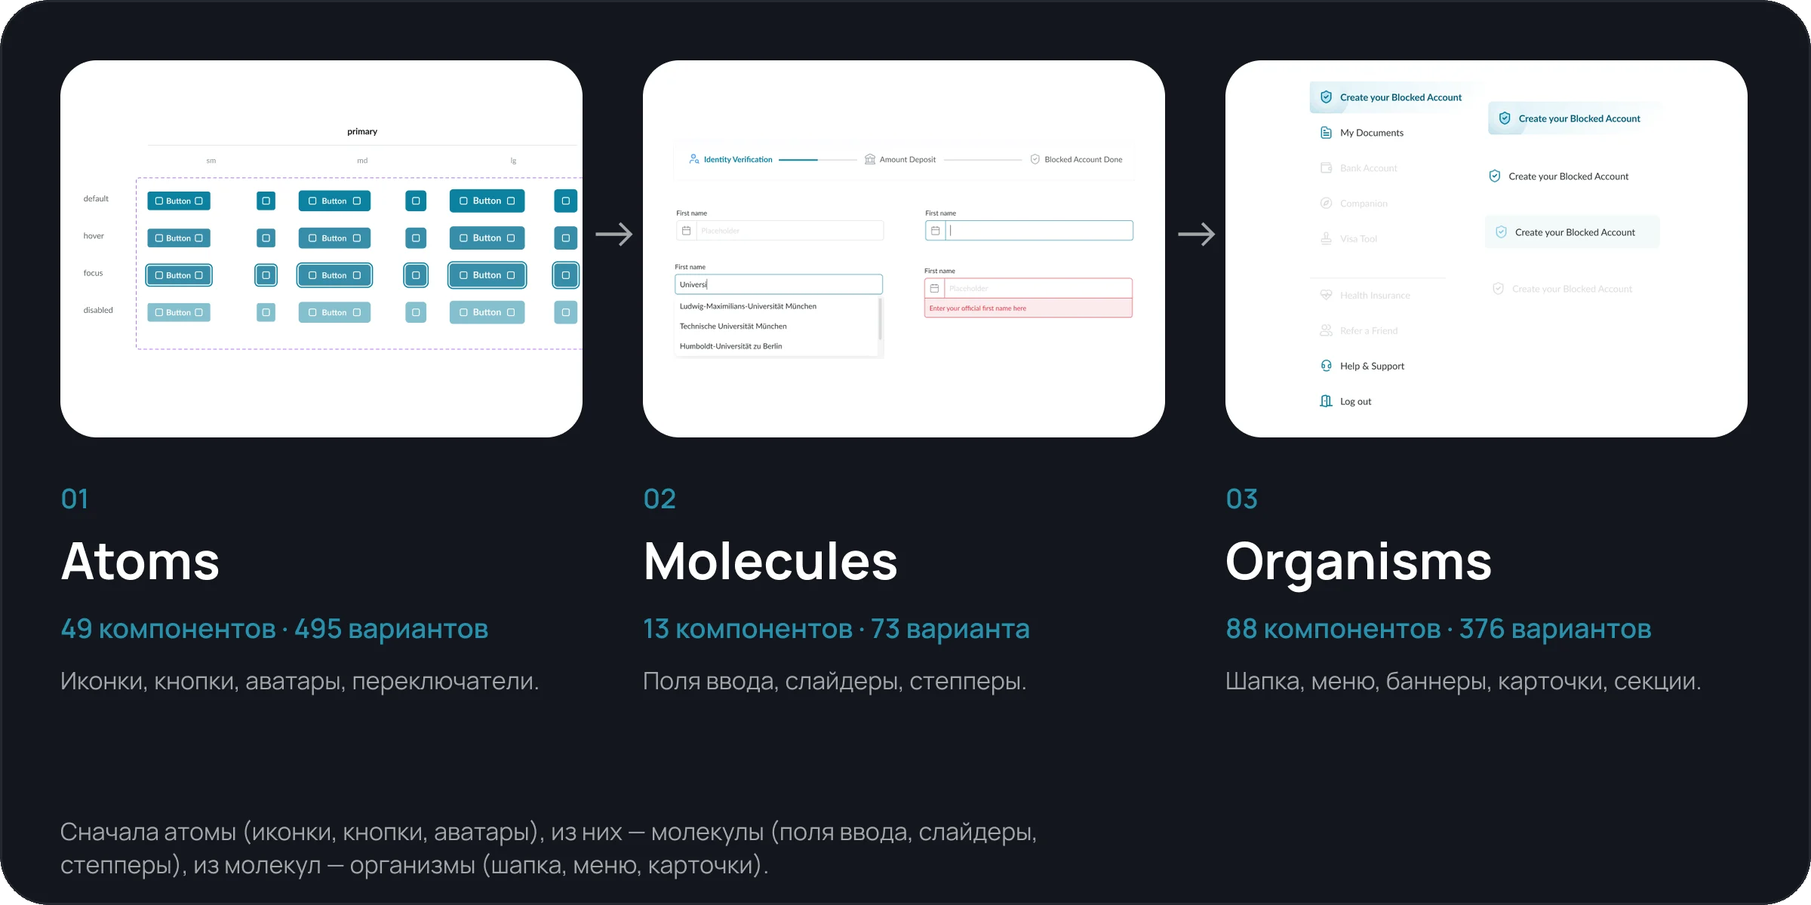
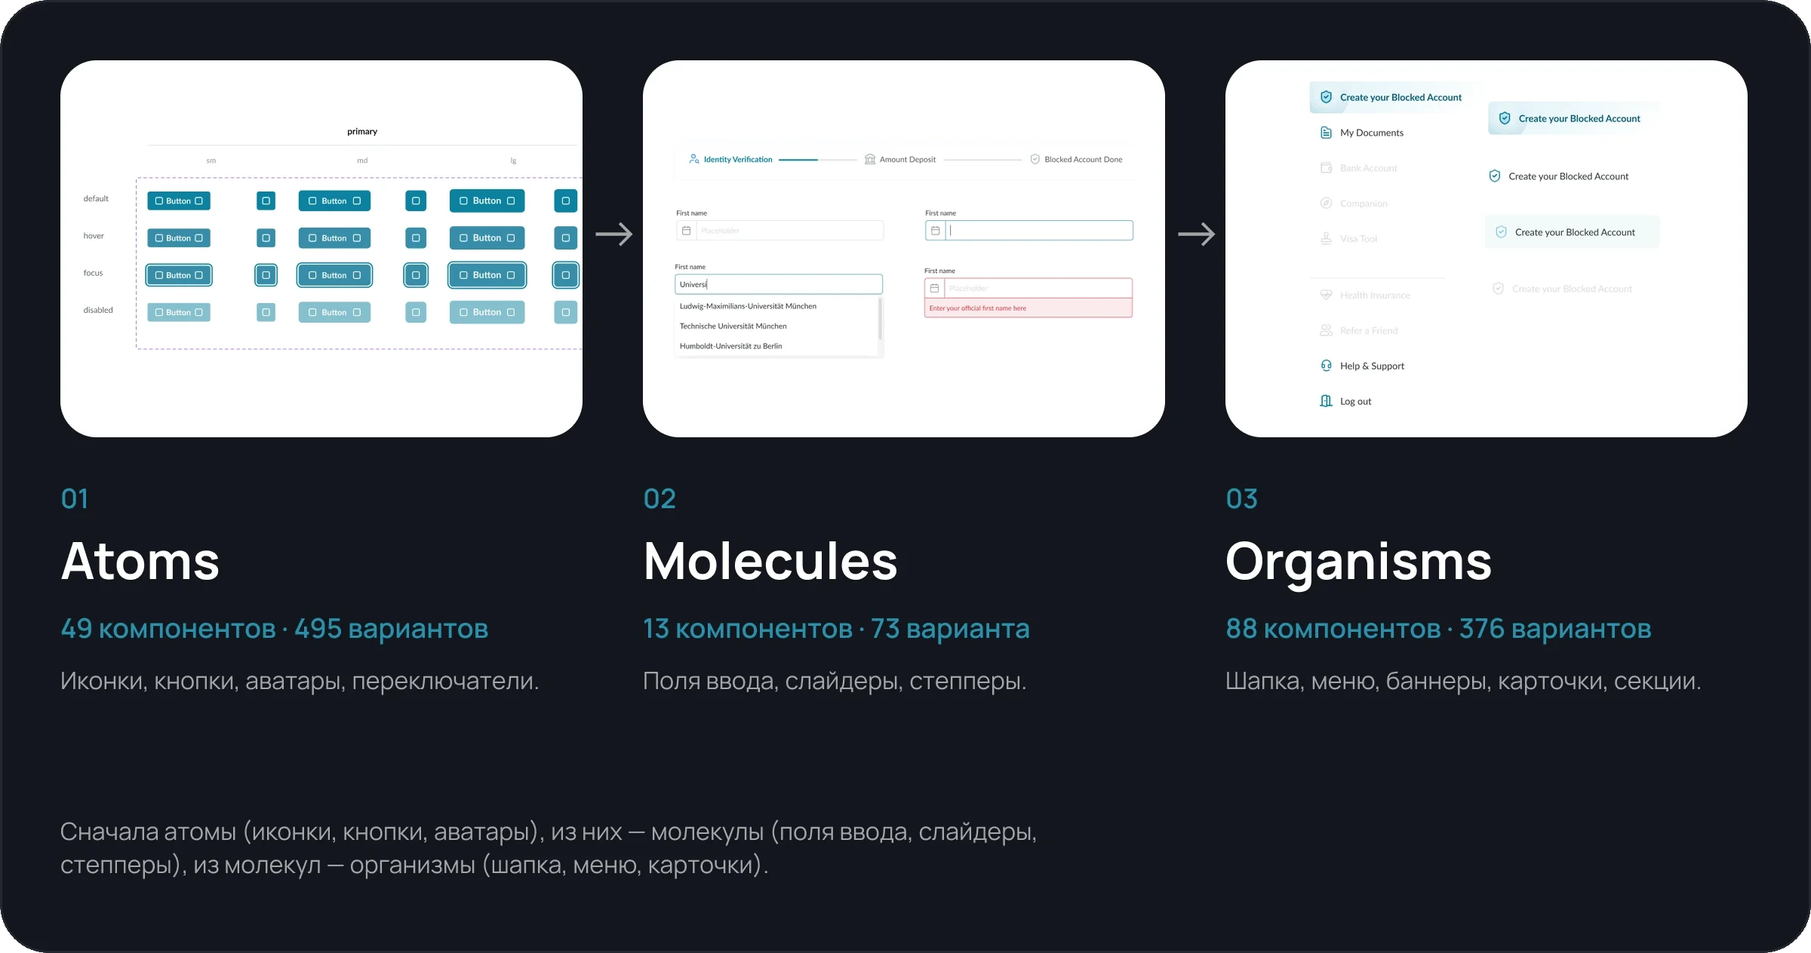
Design-system case: more bottom padding in cards, fix footer line overlap on palette
Claude-Session: https://claude.ai/code/session_011pq2ADq6rPTZrVGSK3qx6v

diff --git a/cases/design-system.html b/cases/design-system.html
@@ -19,7 +19,7 @@
   <link rel="preconnect" href="https://fonts.googleapis.com">
   <link rel="preconnect" href="https://fonts.gstatic.com" crossorigin>
   <link href="https://fonts.googleapis.com/css2?family=Manrope:wght@400;500;600;700;800&display=swap" rel="stylesheet">
-  <link rel="stylesheet" href="../assets/css/site.css?v=1793307500">
+  <link rel="stylesheet" href="../assets/css/site.css?v=1793308300">
   <link rel="stylesheet" href="../assets/css/case-dark.css?v=1793107715">
 </head>
 <body class="theme-dark ds-case">
@@ -105,25 +105,25 @@
         <div class="a dsf" style="--x:0; --y:1344; --w:1200"><span>В цифрах</span><span>05</span></div>
       </div>
     </section>
-    <section class="dsec" style="--h:974; background-image:url(../assets/img/ds/bg-atomic.webp)">
+    <section class="dsec" style="--h:1006; background-image:url(../assets/img/ds/bg-atomic.webp)">
       <div class="st">
         <div class="a dsh" style="--x:0; --y:96; --w:1200"><h2><span>Атомарный</span><span class="pl">подход</span></h2><p class="desc">Систему я собирала по уровням: от базовых элементов до сложных блоков интерфейса. Так её проще расширять и проверять.</p></div>
-        <div class="a" style="--x:0; --y:227; --w:1200"><div class="cimg only-d"><img src="../assets/img/ds/card-atomic.webp" width="2400" height="1200" loading="lazy" alt="Три уровня системы: Atoms — 49 компонентов и 495 вариантов, Molecules — 13 компонентов и 73 варианта, Organisms — 88 компонентов и 376 вариантов"></div><div class="mob only-m"><div class="mlvl"><img src="../assets/img/ds/m-atomic-1.webp" width="692" height="500" loading="lazy" alt="Атомы: варианты кнопок"><span class="num">01</span><h3>Atoms</h3><p class="cnt">49 компонентов · 495 вариантов</p><p>Иконки, кнопки, аватары, переключатели.</p></div><div class="mlvl"><img src="../assets/img/ds/m-atomic-2.webp" width="692" height="500" loading="lazy" alt="Молекулы: поля ввода и степпер"><span class="num">02</span><h3>Molecules</h3><p class="cnt">13 компонентов · 73 варианта</p><p>Поля ввода, слайдеры, степперы.</p></div><div class="mlvl"><img src="../assets/img/ds/m-atomic-3.webp" width="692" height="500" loading="lazy" alt="Организмы: боковое меню"><span class="num">03</span><h3>Organisms</h3><p class="cnt">88 компонентов · 376 вариантов</p><p>Шапка, меню, баннеры, карточки, секции.</p></div><p class="mnote">Сначала атомы (иконки, кнопки, аватары), из них — молекулы (поля ввода, слайдеры, степперы), из молекул — организмы (шапка, меню, карточки).</p></div></div>
-        <div class="a dsf" style="--x:0; --y:883; --w:1200"><span>Методология: атомарный подход</span><span>06</span></div>
+        <div class="a" style="--x:0; --y:227; --w:1200"><div class="cimg only-d"><img src="../assets/img/ds/card-atomic.webp?v=8" width="2400" height="1264" loading="lazy" alt="Три уровня системы: Atoms — 49 компонентов и 495 вариантов, Molecules — 13 компонентов и 73 варианта, Organisms — 88 компонентов и 376 вариантов"></div><div class="mob only-m"><div class="mlvl"><img src="../assets/img/ds/m-atomic-1.webp" width="692" height="500" loading="lazy" alt="Атомы: варианты кнопок"><span class="num">01</span><h3>Atoms</h3><p class="cnt">49 компонентов · 495 вариантов</p><p>Иконки, кнопки, аватары, переключатели.</p></div><div class="mlvl"><img src="../assets/img/ds/m-atomic-2.webp" width="692" height="500" loading="lazy" alt="Молекулы: поля ввода и степпер"><span class="num">02</span><h3>Molecules</h3><p class="cnt">13 компонентов · 73 варианта</p><p>Поля ввода, слайдеры, степперы.</p></div><div class="mlvl"><img src="../assets/img/ds/m-atomic-3.webp" width="692" height="500" loading="lazy" alt="Организмы: боковое меню"><span class="num">03</span><h3>Organisms</h3><p class="cnt">88 компонентов · 376 вариантов</p><p>Шапка, меню, баннеры, карточки, секции.</p></div><p class="mnote">Сначала атомы (иконки, кнопки, аватары), из них — молекулы (поля ввода, слайдеры, степперы), из молекул — организмы (шапка, меню, карточки).</p></div></div>
+        <div class="a dsf" style="--x:0; --y:915; --w:1200"><span>Методология: атомарный подход</span><span>06</span></div>
       </div>
     </section>
-    <section class="dsec" style="--h:894; background-image:url(../assets/img/ds/bg-base.webp)">
+    <section class="dsec" style="--h:926; background-image:url(../assets/img/ds/bg-base.webp)">
       <div class="st">
         <div class="a dsh" style="--x:0; --y:96; --w:1200"><h2><span>Основа</span><span class="pl">системы</span></h2><p class="desc">Три слоя, на которых держится всё остальное: цвета, типографика и иконки. Дальше — каждый подробнее.</p></div>
-        <div class="a" style="--x:0; --y:227; --w:1200"><div class="cimg only-d"><img src="../assets/img/ds/card-base.webp" width="2400" height="1040" loading="lazy" alt="Основа системы: цвета Primary и Secondary, типографика Lato 400 и 700 с размерами от 12 до 36 px, иконки для Web и Mobile с состояниями"></div><div class="mob only-m"><figure class="mfig"><img src="../assets/img/ds/m-base-1.webp" width="692" height="720" loading="lazy" alt="Шкалы бирюзового и фиолетового"><figcaption><b>Цвета</b>Primary и Secondary, семантика для состояний</figcaption></figure><figure class="mfig"><img src="../assets/img/ds/m-base-2.webp" width="692" height="720" loading="lazy" alt="Lato 400 и 700, размеры 12–36"><figcaption><b>Типографика</b>Lato 400 и 700, 9 размеров от 12 до 36 px</figcaption></figure><figure class="mfig"><img src="../assets/img/ds/m-base-3.webp" width="692" height="720" loading="lazy" alt="Иконки в четырёх состояниях"><figcaption><b>Иконки</b>Web и Mobile, с состояниями</figcaption></figure></div></div>
-        <div class="a dsf" style="--x:0; --y:803; --w:1200"><span>Основа системы</span><span>07</span></div>
+        <div class="a" style="--x:0; --y:227; --w:1200"><div class="cimg only-d"><img src="../assets/img/ds/card-base.webp?v=9" width="2400" height="1096" loading="lazy" alt="Основа системы: цвета Primary и Secondary, типографика Lato 400 и 700 с размерами от 12 до 36 px, иконки для Web и Mobile с состояниями"></div><div class="mob only-m"><figure class="mfig"><img src="../assets/img/ds/m-base-1.webp" width="692" height="720" loading="lazy" alt="Шкалы бирюзового и фиолетового"><figcaption><b>Цвета</b>Primary и Secondary, семантика для состояний</figcaption></figure><figure class="mfig"><img src="../assets/img/ds/m-base-2.webp" width="692" height="720" loading="lazy" alt="Lato 400 и 700, размеры 12–36"><figcaption><b>Типографика</b>Lato 400 и 700, 9 размеров от 12 до 36 px</figcaption></figure><figure class="mfig"><img src="../assets/img/ds/m-base-3.webp" width="692" height="720" loading="lazy" alt="Иконки в четырёх состояниях"><figcaption><b>Иконки</b>Web и Mobile, с состояниями</figcaption></figure></div></div>
+        <div class="a dsf" style="--x:0; --y:835; --w:1200"><span>Основа системы</span><span>07</span></div>
       </div>
     </section>
-    <section class="dsec" style="--h:895; background-image:url(../assets/img/ds/bg-palette.webp)">
+    <section class="dsec" style="--h:963; background-image:url(../assets/img/ds/bg-palette.webp)">
       <div class="st">
         <div class="a dsh" style="--x:0; --y:96; --w:1200"><h2><span>Палитра и</span><span class="pl">правила</span></h2><p class="desc">Основной цвет — бирюзовый, вторичный — фиолетовый. Для успеха, ошибок и предупреждений отдельные группы.</p></div>
         <div class="a" style="--x:0; --y:227; --w:1200"><div class="dcard pal-live only-d" id="palLive"><div class="pal-row"><h3>Teal — основной бирюзовый</h3><div class="pal-sws"><button type="button" class="pal-sw" data-scale="teal" data-step="50" data-hex="#F3F9FA" style="--c:#F3F9FA" aria-label="teal/50 #F3F9FA"><i></i><b>50</b><span>#F3F9FA</span></button><button type="button" class="pal-sw" data-scale="teal" data-step="100" data-hex="#E0F2F8" style="--c:#E0F2F8" aria-label="teal/100 #E0F2F8"><i></i><b>100</b><span>#E0F2F8</span></button><button type="button" class="pal-sw" data-scale="teal" data-step="200" data-hex="#B3DFF0" style="--c:#B3DFF0" aria-label="teal/200 #B3DFF0"><i></i><b>200</b><span>#B3DFF0</span></button><button type="button" class="pal-sw" data-scale="teal" data-step="300" data-hex="#80CBE7" style="--c:#80CBE7" aria-label="teal/300 #80CBE7"><i></i><b>300</b><span>#80CBE7</span></button><button type="button" class="pal-sw" data-scale="teal" data-step="400" data-hex="#0C81A0" style="--c:#0C81A0" aria-label="teal/400 #0C81A0"><i></i><b>400</b><span>#0C81A0</span></button><button type="button" class="pal-sw" data-scale="teal" data-step="500" data-hex="#0B748F" style="--c:#0B748F" aria-label="teal/500 #0B748F"><i></i><b>500</b><span>#0B748F</span></button><button type="button" class="pal-sw" data-scale="teal" data-step="600" data-hex="#096078" style="--c:#096078" aria-label="teal/600 #096078"><i></i><b>600</b><span>#096078</span></button><button type="button" class="pal-sw" data-scale="teal" data-step="700" data-hex="#064C60" style="--c:#064C60" aria-label="teal/700 #064C60"><i></i><b>700</b><span>#064C60</span></button><button type="button" class="pal-sw" data-scale="teal" data-step="800" data-hex="#043B4A" style="--c:#043B4A" aria-label="teal/800 #043B4A"><i></i><b>800</b><span>#043B4A</span></button></div></div><div class="pal-row"><h3>Purple — вторичный фиолетовый</h3><div class="pal-sws"><button type="button" class="pal-sw" data-scale="purple" data-step="50" data-hex="#F7F2F7" style="--c:#F7F2F7" aria-label="purple/50 #F7F2F7"><i></i><b>50</b><span>#F7F2F7</span></button><button type="button" class="pal-sw" data-scale="purple" data-step="100" data-hex="#F3E7F6" style="--c:#F3E7F6" aria-label="purple/100 #F3E7F6"><i></i><b>100</b><span>#F3E7F6</span></button><button type="button" class="pal-sw" data-scale="purple" data-step="200" data-hex="#E1C3EA" style="--c:#E1C3EA" aria-label="purple/200 #E1C3EA"><i></i><b>200</b><span>#E1C3EA</span></button><button type="button" class="pal-sw" data-scale="purple" data-step="300" data-hex="#CF9FDE" style="--c:#CF9FDE" aria-label="purple/300 #CF9FDE"><i></i><b>300</b><span>#CF9FDE</span></button><button type="button" class="pal-sw" data-scale="purple" data-step="400" data-hex="#842385" style="--c:#842385" aria-label="purple/400 #842385"><i></i><b>400</b><span>#842385</span></button><button type="button" class="pal-sw" data-scale="purple" data-step="500" data-hex="#731E74" style="--c:#731E74" aria-label="purple/500 #731E74"><i></i><b>500</b><span>#731E74</span></button><button type="button" class="pal-sw" data-scale="purple" data-step="600" data-hex="#601A62" style="--c:#601A62" aria-label="purple/600 #601A62"><i></i><b>600</b><span>#601A62</span></button></div></div><div class="pal-info" aria-live="polite"><i class="pal-info__sw"></i><div class="pal-info__txt"><b class="pal-info__name">teal/400</b><span class="pal-info__use"></span></div><button type="button" class="pal-copy">Скопировать HEX <em>#0C81A0</em></button></div><p class="pal-hint">Нажми на оттенок: увидишь токен, который на нём держится.</p></div><div class="mob only-m"><div class="mcard"><h3 class="ph">Teal — основной бирюзовый</h3><ul class="mpal"><li><i style="background:#F3F9FA"></i><b>50</b><span>#F3F9FA</span></li><li><i style="background:#E0F2F8"></i><b>100</b><span>#E0F2F8</span></li><li><i style="background:#B3DFF0"></i><b>200</b><span>#B3DFF0</span></li><li><i style="background:#80CBE7"></i><b>300</b><span>#80CBE7</span></li><li><i style="background:#0C81A0"></i><b>400</b><span>#0C81A0</span></li><li><i style="background:#0B748F"></i><b>500</b><span>#0B748F</span></li><li><i style="background:#096078"></i><b>600</b><span>#096078</span></li><li><i style="background:#064C60"></i><b>700</b><span>#064C60</span></li><li><i style="background:#043B4A"></i><b>800</b><span>#043B4A</span></li></ul><h3 class="ph">Purple — вторичный фиолетовый</h3><ul class="mpal"><li><i style="background:#F7F2F7"></i><b>50</b><span>#F7F2F7</span></li><li><i style="background:#F3E7F6"></i><b>100</b><span>#F3E7F6</span></li><li><i style="background:#E1C3EA"></i><b>200</b><span>#E1C3EA</span></li><li><i style="background:#CF9FDE"></i><b>300</b><span>#CF9FDE</span></li><li><i style="background:#842385"></i><b>400</b><span>#842385</span></li><li><i style="background:#731E74"></i><b>500</b><span>#731E74</span></li><li><i style="background:#601A62"></i><b>600</b><span>#601A62</span></li></ul></div></div></div>
-        <div class="a dsf" style="--x:0; --y:804; --w:1200"><span>Цветовая палитра</span><span>08</span></div>
+        <div class="a dsf" style="--x:0; --y:872; --w:1200"><span>Цветовая палитра</span><span>08</span></div>
       </div>
     </section>
     <section class="dsec dsec--tabs" id="tok" style="--h:1378; background-image:url(../assets/img/ds/bg-tokens.webp)">
@@ -153,7 +153,7 @@
         <div class="a dsf" style="--x:0; --y:2882; --w:1200"><span>Кнопки</span><span>11</span></div>
       </div>
     </section>
-    <section class="dsec" style="--h:900; background-image:url(../assets/img/ds/bg-inputs.webp)">
+    <section class="dsec" style="--h:915; background-image:url(../assets/img/ds/bg-inputs.webp)">
       <div class="st">
         <div class="a dsh" style="--x:0; --y:96; --w:1200"><h2><span>Собери</span><span class="pl">кнопку</span></h2><p class="desc">Button — один компонент вместо набора. Выбери тип, состояние, размер и иконку: 9 × 4 × 3 × 2 = 216 вариантов.</p></div>
         <div class="a" style="--x:0; --y:227; --w:1200"><div class="dcard pg" id="pg">
@@ -166,7 +166,7 @@
           <div class="pg__stage"><div class="pg__surface"><button type="button" class="dbtn" data-type="primary" data-state="default" data-size="md" data-icon="off" tabindex="-1"><span class="dbtn__t">Button</span><svg class="dbtn__i" viewBox="0 0 24 24" width="18" height="18" fill="none" stroke="currentColor" stroke-width="2" stroke-linecap="round" stroke-linejoin="round" aria-hidden="true"><path d="M5 12h14M13 6l6 6-6 6"/></svg></button></div>
             <code class="pg__code" id="pgCode">variant=primary · state=default · size=md · iconOnly=false</code></div>
         </div></div>
-        <div class="a dsf" style="--x:0; --y:809; --w:1200"><span>Конфигуратор Button</span><span>12</span></div>
+        <div class="a dsf" style="--x:0; --y:824; --w:1200"><span>Конфигуратор Button</span><span>12</span></div>
       </div>
     </section>
     <section class="dsec" style="--h:1054; background-image:url(../assets/img/ds/bg-inputs.webp)">
@@ -210,11 +210,11 @@
         <div class="a dsf" style="--x:0; --y:1486; --w:1200"><span>Аудит модальных окон</span><span>17</span></div>
       </div></div>
     </section>
-    <section class="dsec" style="--h:1270; background-image:url(../assets/img/ds/bg-product.webp)">
+    <section class="dsec" style="--h:1302; background-image:url(../assets/img/ds/bg-product.webp)">
       <div class="st">
         <div class="a dsh" style="--x:0; --y:96; --w:1200"><h2><span>Система</span><span class="pl">в продукте</span></h2><p class="desc">Экраны из потоков пополнения счёта и входа: так система выглядит в живом продукте.</p></div>
-        <div class="a" style="--x:0; --y:227; --w:1200"><div class="cimg only-d"><img src="../assets/img/ds/card-product.webp" width="2400" height="1792" loading="lazy" alt="Три экрана продукта: способы оплаты, данные плательщика и вход в аккаунт"></div><div class="mob only-m"><div class="mphones"><figure><img src="../assets/img/ds/m-product-1.webp" width="692" height="1504" loading="lazy" alt="Способы оплаты"><figcaption><b>Способы оплаты</b>Карточки с состояниями, статусы Instant и Non-Instant, ссылки на детали.</figcaption></figure><figure><img src="../assets/img/ds/m-product-2.webp" width="692" height="1504" loading="lazy" alt="Данные плательщика"><figcaption><b>Данные плательщика</b>Поля ввода с иконками, подсказки и кнопка в состоянии disabled.</figcaption></figure><figure><img src="../assets/img/ds/m-product-3.webp" width="692" height="1504" loading="lazy" alt="Вход в аккаунт"><figcaption><b>Вход в аккаунт</b>Основная кнопка, поле ввода, вход через Google и состояние кнопки disabled.</figcaption></figure></div></div></div>
-        <div class="a dsf" style="--x:0; --y:1179; --w:1200"><span>Система в продукте</span><span>18</span></div>
+        <div class="a" style="--x:0; --y:227; --w:1200"><div class="cimg only-d"><img src="../assets/img/ds/card-product.webp?v=8" width="2400" height="1856" loading="lazy" alt="Три экрана продукта: способы оплаты, данные плательщика и вход в аккаунт"></div><div class="mob only-m"><div class="mphones"><figure><img src="../assets/img/ds/m-product-1.webp" width="692" height="1504" loading="lazy" alt="Способы оплаты"><figcaption><b>Способы оплаты</b>Карточки с состояниями, статусы Instant и Non-Instant, ссылки на детали.</figcaption></figure><figure><img src="../assets/img/ds/m-product-2.webp" width="692" height="1504" loading="lazy" alt="Данные плательщика"><figcaption><b>Данные плательщика</b>Поля ввода с иконками, подсказки и кнопка в состоянии disabled.</figcaption></figure><figure><img src="../assets/img/ds/m-product-3.webp" width="692" height="1504" loading="lazy" alt="Вход в аккаунт"><figcaption><b>Вход в аккаунт</b>Основная кнопка, поле ввода, вход через Google и состояние кнопки disabled.</figcaption></figure></div></div></div>
+        <div class="a dsf" style="--x:0; --y:1211; --w:1200"><span>Система в продукте</span><span>18</span></div>
       </div>
     </section>
     <section class="dsec" style="--h:1299; background-image:url(../assets/img/ds/bg-decisions.webp)">
@@ -301,6 +301,6 @@
   </button>
   <script src="../assets/js/back-to-top.js?v=1793091998" defer></script>
   <script src="../assets/js/cases.js?v=1793200010" defer></script>
-  <script src="../assets/js/ds.js?v=1793307500" defer></script>
+  <script src="../assets/js/ds.js?v=1793308300" defer></script>
 </body>
 </html>
